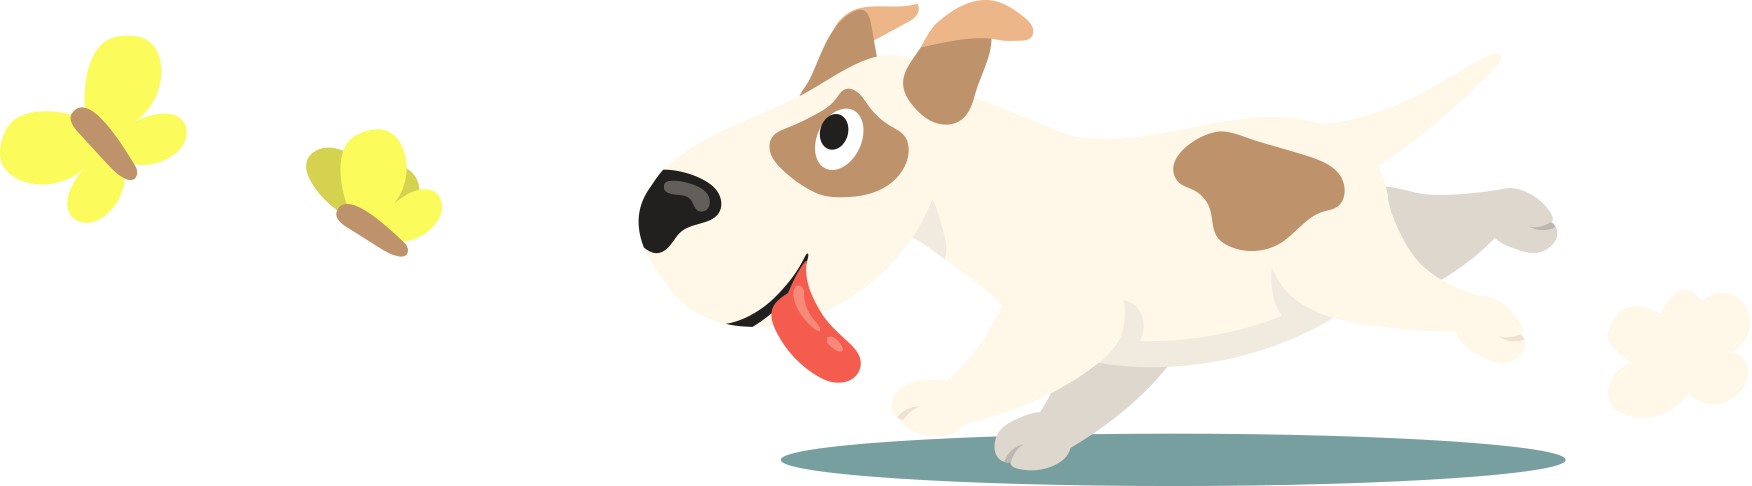
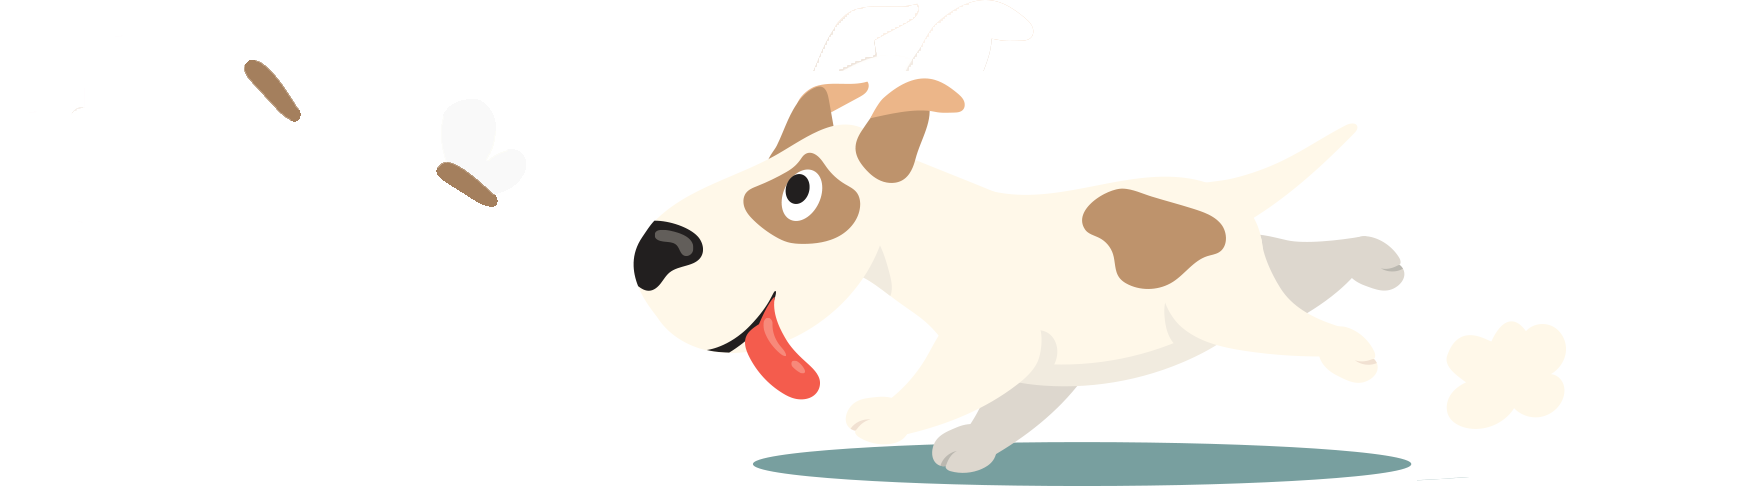
변경사항

diff --git a/src/components/Footer.js b/src/components/Footer.js
@@ -4,7 +4,7 @@ import '../styles/Footer.css';
 const Footer = () => {
     return(
         <div className='footer_wrap'>
-            <p className='footer_img_wrap'><img src={process.env.PUBLIC_URL + '/images/footer.png'} width='1899' height='139' alt='하단이미지'/>하단이미지</p>
+            <p className='footer_img_wrap'><img src={process.env.PUBLIC_URL + '/images/footer_g.png'} width='1899' height='139' alt='하단이미지'/>하단이미지</p>
             <p className='dog'><img src={process.env.PUBLIC_URL + '/images/dog.png'} width='360' height='100' alt='강아지이미지' />강아지이미지</p>
             <div>
                 <div>

diff --git a/src/components/Detail.js b/src/components/Detail.js
@@ -11,7 +11,6 @@ const Detail = (props) => {
             setAlert(false)
         }, 3500)
         return()=>{
-            console.log(1)
         clearTimeout(timer)
         }
     })
